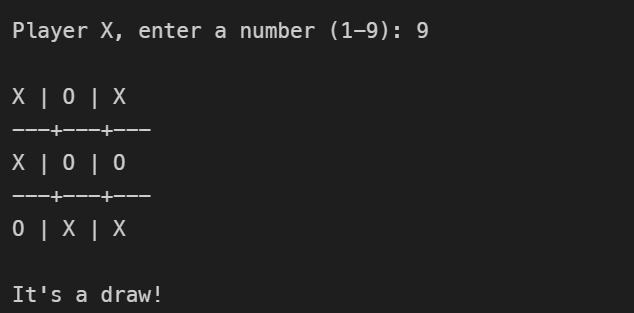
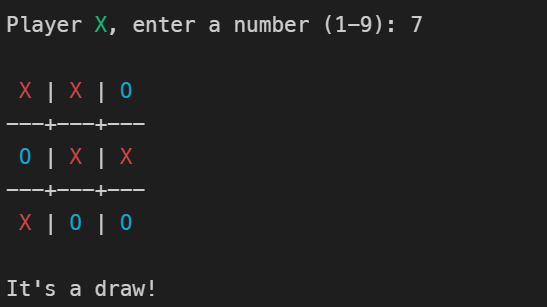
实现切换颜色, 完善readme

diff --git a/README.md b/README.md
@@ -133,14 +133,14 @@ Player O, enter a number (1-9):
 5.  **绘图逻辑 (`print_board`)**
     -   虽然是命令行界面，但通过打印 `|` 和 `---+---+---` 字符构建了可视化的网格。
     -   通过计算偏移量直接访问 `board` 数组中的字符并打印。
+    -   **彩色支持**：在打印 'X' 或 'O', 以及打印当前玩家时，先输出对应的 ANSI 颜色代码（如 `\033[31m`），打印字符后再重置颜色 (`\033[0m`)。
 
 ## 心得体会
 
-通过使用 x86_64 汇编语言编写这个井字棋游戏，我对计算机底层工作原理有了更深刻的理解：
+通过本项目，我对汇编语言编程有了更深入的实践和理解：
 
-1.  **直接控制硬件资源**：汇编语言允许直接操作寄存器和内存，这让我明白了高级语言中的变量赋值和函数调用在底层是如何通过 `mov`、`push`、`pop` 等指令实现的。
-2.  **系统调用的本质**：直接使用 `syscall` 指令与 Linux 内核交互，让我理解了标准库函数（如 `printf`、`scanf`）背后封装的真实操作。
-3.  **逻辑思维的锻炼**：在汇编中，没有高级的 `if-else` 或 `for` 循环结构，所有的逻辑控制都需要通过比较 (`cmp`) 和跳转 (`jmp`/`je`/`jne`) 指令来构建，这对逻辑思维能力是极大的锻炼。
-4.  **调试的挑战**：汇编代码的调试比高级语言困难得多，需要时刻关注寄存器的状态和标志位的变化，这培养了严谨的编程习惯。
-
-虽然汇编语言在编写代码方面效率较低，但它在性能优化、系统底层开发以及理解计算机体系结构方面具有不可替代的价值。
+1.  **数据管理与内存操作**：在汇编语言中，程序员需要手动管理内存和数据的存储结构。本项目通过定义 `.data` 和 `.bss` 段来存储棋盘状态、玩家信息和临时输入，展示了如何使用汇编语言直接管理程序的内存布局。
+2.  **输入输出与系统调用**：在汇编中，输入输出操作通常依赖于操作系统提供的接口。本项目在 Linux 环境下通过 `syscall` 指令直接调用内核服务（如 `sys_read` 和 `sys_write`），展示了现代操作系统下汇编语言如何处理用户交互。
+3.  **流程控制与条件判断**：汇编语言的流程控制依赖于条件跳转和标签。本项目通过 `cmp` 比较指令配合 `je`、`jmp` 等跳转指令，实现了游戏循环、胜负判断和非法输入检测等复杂的逻辑控制。
+4.  **子程序与模块化**：为了提高代码的可读性和可维护性，本项目将功能封装为多个子程序（如 `print_board`、`get_move`、`check_win` 等）。这种模块化的设计思想在汇编语言中尤为重要，有助于组织复杂的程序结构。
+5.  **手动管理程序状态**：在汇编中，程序状态和标志的管理完全由开发者控制。例如，通过 `player` 变量指示当前玩家，通过检查 `board` 数组的状态来决定游戏是否结束。每次操作后手动更新这些状态，从而精确控制游戏流程。
